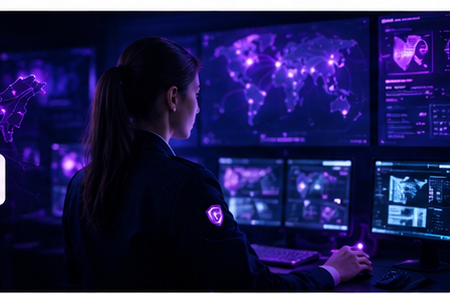
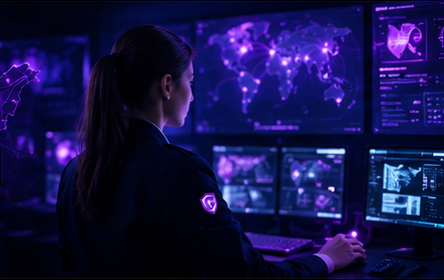
feat: add investigation monitoring room asset and update experience metrics and hologram element positioning

diff --git a/style.css b/style.css
@@ -10939,25 +10939,25 @@ body.page-enter-from-left {
 }
 
 .holo-top-right {
-    top: -24px;
-    right: -24px;
+    top: 46px;
+    right: 20px;
     animation: cyberHoloFloatA 5s ease-in-out infinite alternate;
 }
 
 .holo-bottom-left {
-    bottom: -22px;
-    left: -22px;
+    bottom: 46px;
+    left: 20px;
     animation: cyberHoloFloatB 6s ease-in-out infinite alternate;
 }
 
 @keyframes cyberHoloFloatA {
     0% { transform: translateY(0px); }
-    100% { transform: translateY(-9px); }
+    100% { transform: translateY(-6px); }
 }
 
 @keyframes cyberHoloFloatB {
     0% { transform: translateY(0px); }
-    100% { transform: translateY(9px); }
+    100% { transform: translateY(6px); }
 }
 
 .holo-badge-icon {
@@ -11043,8 +11043,8 @@ body.page-enter-from-left {
 /* Experience Pill */
 .hologram-pill {
     position: absolute;
-    top: 50px;
-    left: -20px;
+    top: 46px;
+    left: 20px;
     z-index: 9;
     display: inline-flex;
     align-items: center;
@@ -11058,6 +11058,11 @@ body.page-enter-from-left {
     color: #e2e8f0;
     box-shadow: 0 10px 25px rgba(0, 0, 0, 0.4), 0 0 15px rgba(0, 240, 255, 0.15);
     animation: cyberHoloFloatA 4.2s ease-in-out infinite alternate;
+}
+
+.holo-top-left {
+    top: 46px;
+    left: 20px;
 }
 
 .pill-glow-dot {
@@ -11086,18 +11091,19 @@ body.page-enter-from-left {
     }
 
     .holo-top-right {
-        top: -15px;
-        right: 0px;
+        top: 40px;
+        right: 16px;
     }
 
     .holo-bottom-left {
-        bottom: -15px;
-        left: 0px;
+        bottom: 44px;
+        left: 16px;
     }
 
+    .holo-top-left,
     .hologram-pill {
-        left: 10px;
-        top: 45px;
+        left: 16px;
+        top: 40px;
     }
 }
 
@@ -11134,15 +11140,16 @@ body.page-enter-from-left {
     }
 
     .holo-top-right {
-        top: -10px;
-        right: -5px;
+        top: 14px;
+        right: 14px;
     }
 
     .holo-bottom-left {
-        bottom: -10px;
-        left: -5px;
+        bottom: 42px;
+        left: 14px;
     }
 
+    .holo-top-left,
     .hologram-pill {
         display: none;
     }

diff --git a/digital-forensics.php b/digital-forensics.php
@@ -170,7 +170,7 @@ include_once __DIR__ . '/includes/header.php';
                             At Cyber Kovai, we provide reliable and discreet investigation and verification services to help individuals, businesses, and organizations make informed, confident decisions.
                         </p>
                         <p class="about-sub-text">
-                            Combining <strong>20+ years of investigative mastery</strong> with modern cyber-analytics to deliver swift, court-admissible, and actionable intelligence.
+                            Combining <strong>10+ years of investigative mastery</strong> with modern cyber-analytics to deliver swift, court-admissible, and actionable intelligence.
                         </p>
                     </div>
 
@@ -186,7 +186,7 @@ include_once __DIR__ . '/includes/header.php';
                             <div class="capability-body">
                                 <div class="capability-header">
                                     <h4>Experienced Investigators</h4>
-                                    <span class="capability-tag">20+ YRS EXP</span>
+                                    <span class="capability-tag">10+ YRS EXP</span>
                                 </div>
                                 <p>Licensed forensic specialists executing rigorous field and cyber analytics with verified precision.</p>
                             </div>
@@ -245,7 +245,7 @@ include_once __DIR__ . '/includes/header.php';
                     <!-- Mini Stat Ticker Row -->
                     <div class="about-stat-strip">
                         <div class="stat-strip-item">
-                            <span class="stat-strip-num">20+</span>
+                            <span class="stat-strip-num">10+</span>
                             <span class="stat-strip-lbl">Years Field Mastery</span>
                         </div>
                         <div class="stat-strip-divider"></div>
